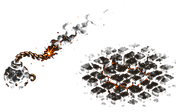
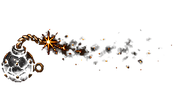
Refine Sapper and Hexer gameplay-scale intent assets

diff --git a/apps/web/src/Battlefield.tsx b/apps/web/src/Battlefield.tsx
@@ -916,6 +916,28 @@ export function authoredEnemyIntentEffectLayout(
     : "span";
 }
 
+export function authoredEnemyIntentTargetPoint(
+  intent: EnemyIntentPresentation,
+  source: Readonly<{ x: number; y: number }>,
+  target: Readonly<{ x: number; y: number }>
+): Readonly<{ x: number; y: number }> {
+  if (intent.mechanic !== "attack_slow") return target;
+  const deltaX = target.x - source.x;
+  const deltaY = target.y - source.y;
+  const distance = Math.hypot(deltaX, deltaY);
+  if (distance === 0) return { x: target.x, y: target.y + 36 };
+  let perpendicularX = -deltaY / distance;
+  let perpendicularY = deltaX / distance;
+  if (perpendicularY < 0) {
+    perpendicularX *= -1;
+    perpendicularY *= -1;
+  }
+  return {
+    x: target.x + perpendicularX * 24,
+    y: target.y + perpendicularY * 24 + 12
+  };
+}
+
 export function statusSignalKind(
   statusId: string
 ):
@@ -2712,7 +2734,11 @@ class PersistentBattlefieldScene {
         sourceEntity.targetEntityId === null
           ? undefined
           : primitiveById.get(sourceEntity.targetEntityId);
-      const destination = target ?? source;
+      const destination = authoredEnemyIntentTargetPoint(
+        intent,
+        source,
+        target ?? source
+      );
       const midpointX = (source.x + destination.x) / 2;
       const midpointY = (source.y + destination.y) / 2;
       const distance = Math.hypot(
@@ -2762,14 +2788,10 @@ class PersistentBattlefieldScene {
       } else {
         const endpoint =
           this.behaviorEndpoints.get(sourceEntity.id) ??
-          this.scene.add.image(
-            destination.x,
-            destination.y + 25,
-            assets.endpoint
-          );
+          this.scene.add.image(destination.x, destination.y, assets.endpoint);
         endpoint
           .setTexture(assets.endpoint)
-          .setPosition(destination.x, destination.y + 25)
+          .setPosition(destination.x, destination.y)
           .setDisplaySize(60, 34)
           .setAlpha(0.88)
           .setRotation(0);

diff --git a/apps/web/src/App.browser.test.tsx b/apps/web/src/App.browser.test.tsx
@@ -18,6 +18,7 @@ import { App } from "./App.js";
 import {
   authoredEnemyIntentAssets,
   authoredEnemyIntentEffectLayout,
+  authoredEnemyIntentTargetPoint,
   Battlefield,
   battlefieldEffectLifetime,
   buildBattlefieldPrimitives,
@@ -1759,6 +1760,20 @@ describe("player-facing combat HUD", () => {
         phase: "committed"
       })
     ).toBe("endpoint");
+    expect(
+      authoredEnemyIntentTargetPoint(
+        { mechanic: "attack_slow", phase: "committed" },
+        { x: 200, y: 100 },
+        { x: 100, y: 100 }
+      )
+    ).toEqual({ x: 100, y: 136 });
+    expect(
+      authoredEnemyIntentTargetPoint(
+        { mechanic: "attack_disrupt", phase: "committed" },
+        { x: 200, y: 100 },
+        { x: 100, y: 100 }
+      )
+    ).toEqual({ x: 100, y: 100 });
     expect(
       enemyIntentDetail({
         visualId: "enemy.goblin_hexer",

diff --git a/assets/game-art/combat-animation/build_assets.py b/assets/game-art/combat-animation/build_assets.py
@@ -42,7 +42,7 @@ SOURCE_DIGESTS = {
[5 lines of base64/hex data omitted]
 }
 
 WARDEN_CROPS = {

diff --git a/assets/game-art/combat-animation/generation-log.md b/assets/game-art/combat-animation/generation-log.md
@@ -194,3 +194,30 @@ Make each source, direction, recipient, and consequence pictorially readable whe
 ### Bounded QA and export semantics
 
 The correction contains exactly eight isolated assets in the required 4×2 order. The first-column exports are now freestanding bomb and lantern objects with no plaque geometry or backing. The remaining cells retain distinct source, directional, destination, impact/resolve, and cancellation imagery. The keyed background is uniform and no character, UI, text, or environment layer is present. The deterministic exporter uses the first-column cells directly for compact health-frame endcaps and binds the corrected source digest and every exported digest.
+
+## `shuttergate-sapper-hexer-intent-atlas-master.png` — gameplay-scale readability correction
+
+- Provider: `openai-codex`
+- Model: `gpt-image-2-medium`
+- Aspect ratio: `landscape`
+- Requested and saved dimensions: `1536x1024`
+- Quality: `medium`
+- Modality: image-to-image correction
+- Input image: preceding project-owned `shuttergate-sapper-hexer-intent-atlas-master.png`
[2 lines of base64/hex data omitted]
+- License: project MIT license (`LICENSE`)
+
+### Exact prompt
+
+Edit this ORIGINAL project-owned Dwarven Depths asset atlas into a cleaner production-ready replacement while preserving its exact 4-column × 2-row layout, 1536×1024 canvas intent, black removable key background, warm painterly pixel-art material, and generous cell isolation. No text, labels, borders, UI, plaques, health bars, characters, scenery, floor tiles, cobblestones, rings, crosshairs, arrows, letters, or generic geometric debug symbols. Exactly eight isolated effects, one centered in each equal cell, nothing crosses a cell boundary.
+
+TOP ROW — SAPPER, left to right: (1) compact recognizable black-iron spherical goblin bomb with brass winding key and a thick braided fuse, fuse tip visibly glowing amber; bold readable silhouette for a 20-pixel actor-attached crest, no backing plate; (2) directional fuse tell: the same compact bomb clearly at the LEFT source, its thick braided fuse and a restrained LOW horizontal stream of warm ember flecks and thin charcoal smoke traveling unmistakably LEFT→RIGHT; readable when displayed only 32 pixels high, smoke must not become a serpent or cloud and must leave negative space; (3) committed blast footprint: a broad, flat, floor-integrated radial blast warning made ONLY of sparse etched amber fissures, small ember points, and a restrained low central ignition; no bomb, no floor/tile patch, no opaque disc, no high flame column; silhouette wider than tall and readable at 98×50 pixels while underlying game floor texture remains visible; (4) cancellation: recognizable broken bomb halves and a few dissolving iron/ember fragments, no prohibition icon.
+
+BOTTOM ROW — HEXER, left to right: (1) compact recognizable dark forged hex lantern with one bold asymmetrical violet rune glowing inside and brass handle/key detail; bold readable silhouette for a 20-pixel actor-attached crest, no backing plate; (2) directional channel: the same lantern clearly at LEFT source emitting one narrow, taut, low violet-and-muted-brass braided channel toward a small rune-knot endpoint at RIGHT; channel thickness about 10–14% of cell height, much narrower and calmer than the prior ribbon, no floor patch, no smoky serpent, strong negative space above and below, readable when displayed 26 pixels high; (3) target endpoint: a compact floor-hugging asymmetrical rune-knot made of three short etched violet/brass strokes and a few low motes; no stone tablet, no circular ring, no crosshair, no floor/tile patch, remains visible beside rather than over an actor at 60×34 pixels; (4) cancellation: fractured lantern/rune shards dissolving into restrained violet dust, no prohibition icon.
+
+Keep effects crisp, materially grounded, low-profile, and darker at edges. Warm Sapper light must harmonize with Shuttergate amber illumination; Hexer violet must be desaturated plum with restrained brass highlights, never saturated neon. Prioritize normal gameplay-scale readability through recognizable objects and directional causality, not size, brightness, or particle count.
+
+### Bounded QA and export semantics
+
+The replacement preserves eight isolated cells and removes baked floor patches from both committed endpoints. The Sapper sequence uses one recognizable bomb language from source through fuse direction and then resolves into a sparse alpha-only etched blast footprint. The Hexer sequence uses one lantern source, a narrow channel, and a compact endpoint; runtime placement moves that endpoint beside the target footing so it does not cover the recipient silhouette. Cancellation remains authored fracture/dissolve rather than prohibition glyphs. The deterministic exporter binds the replacement source and every alpha export.
